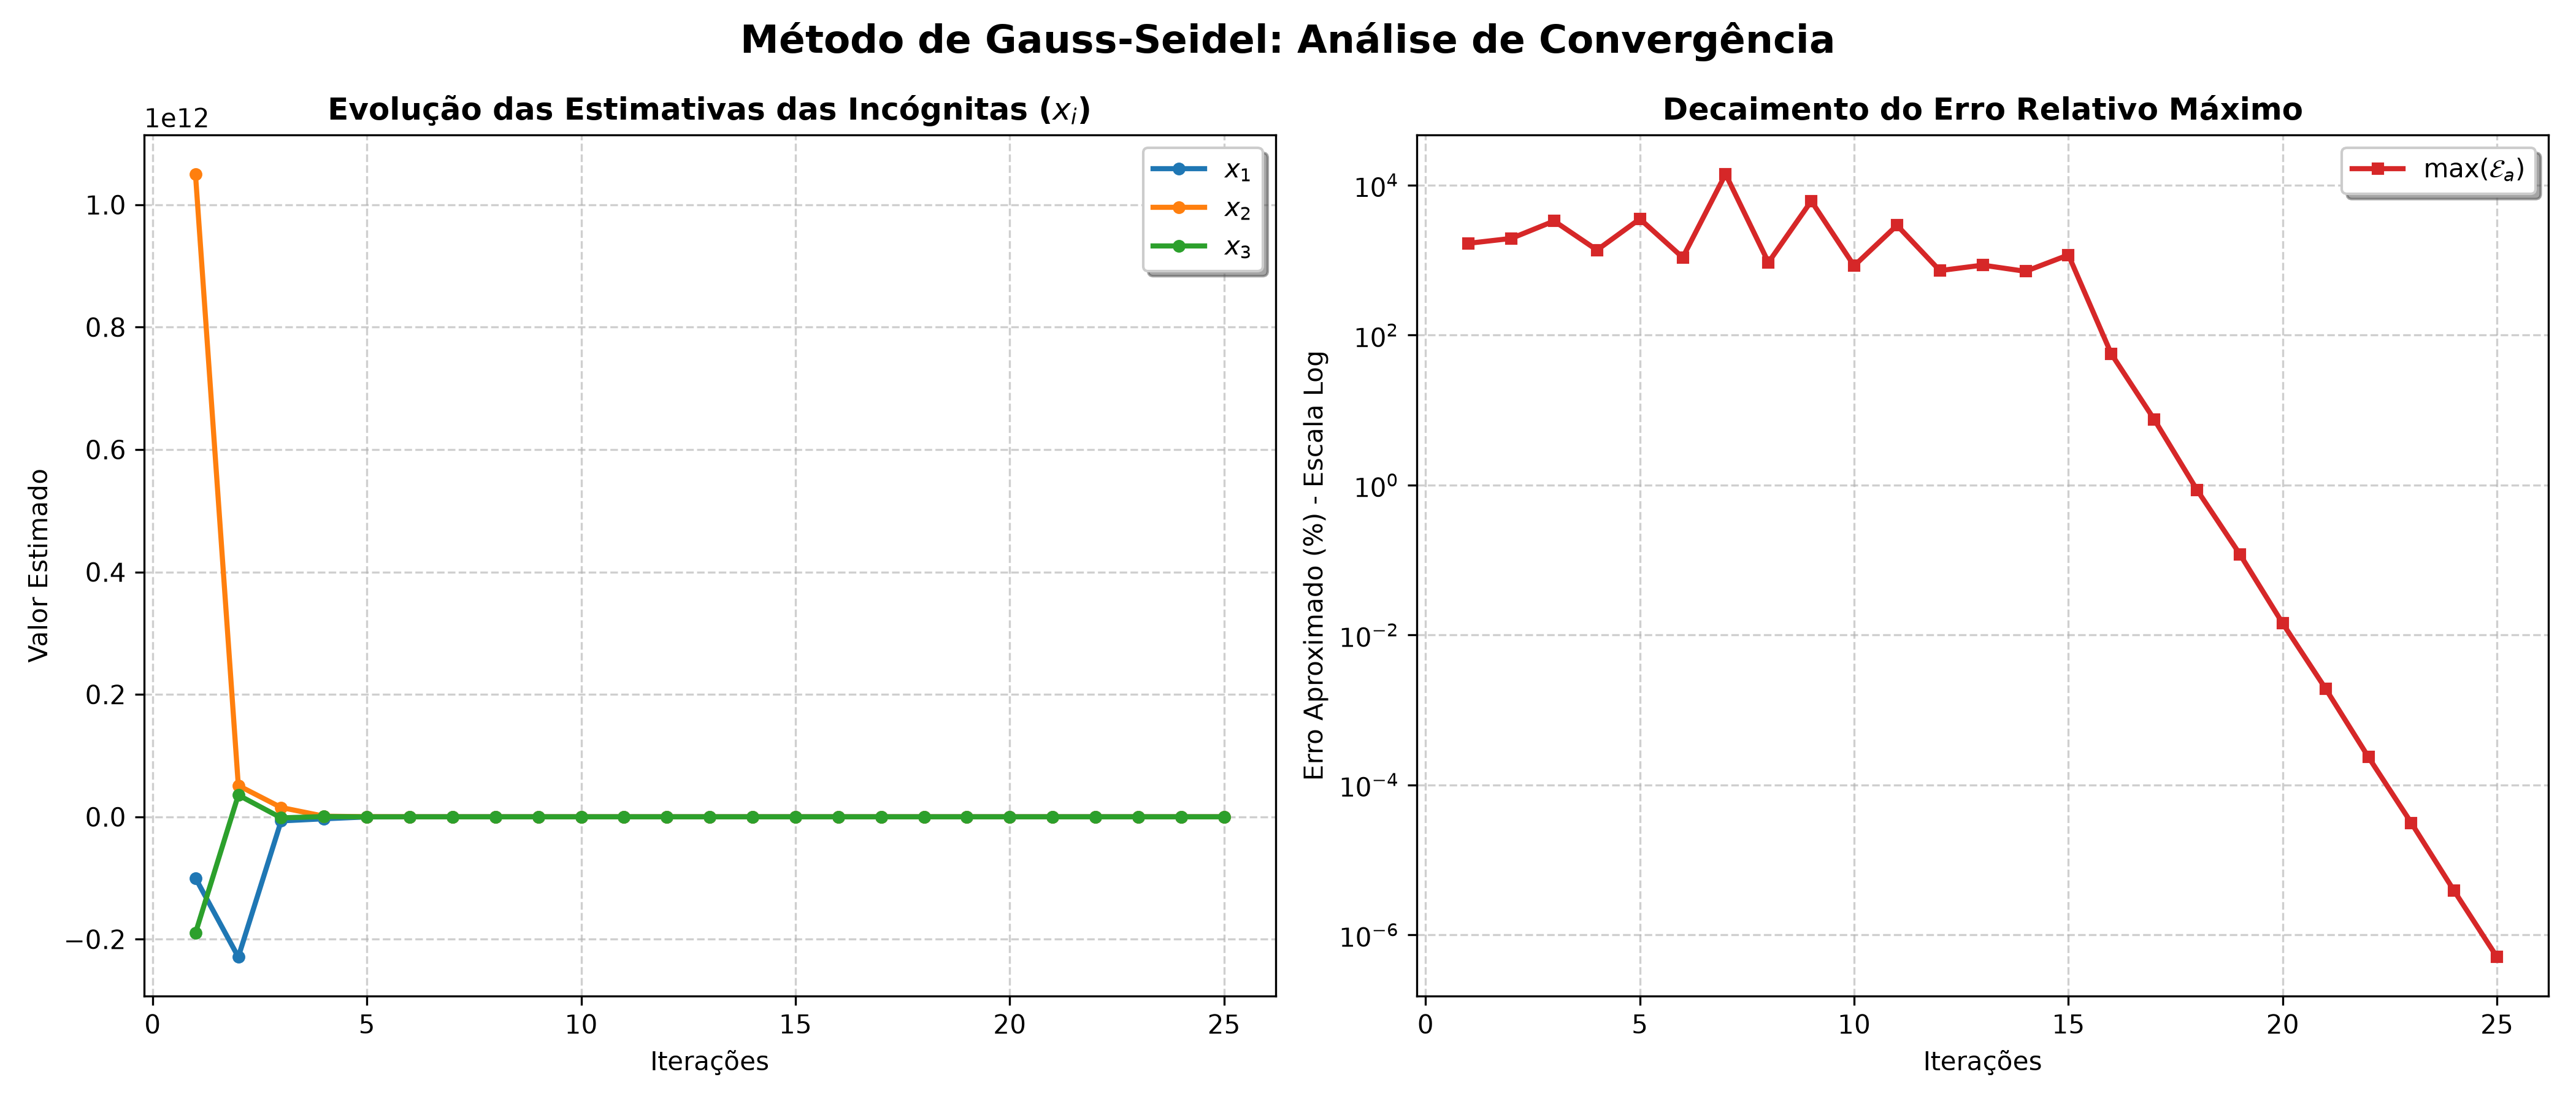
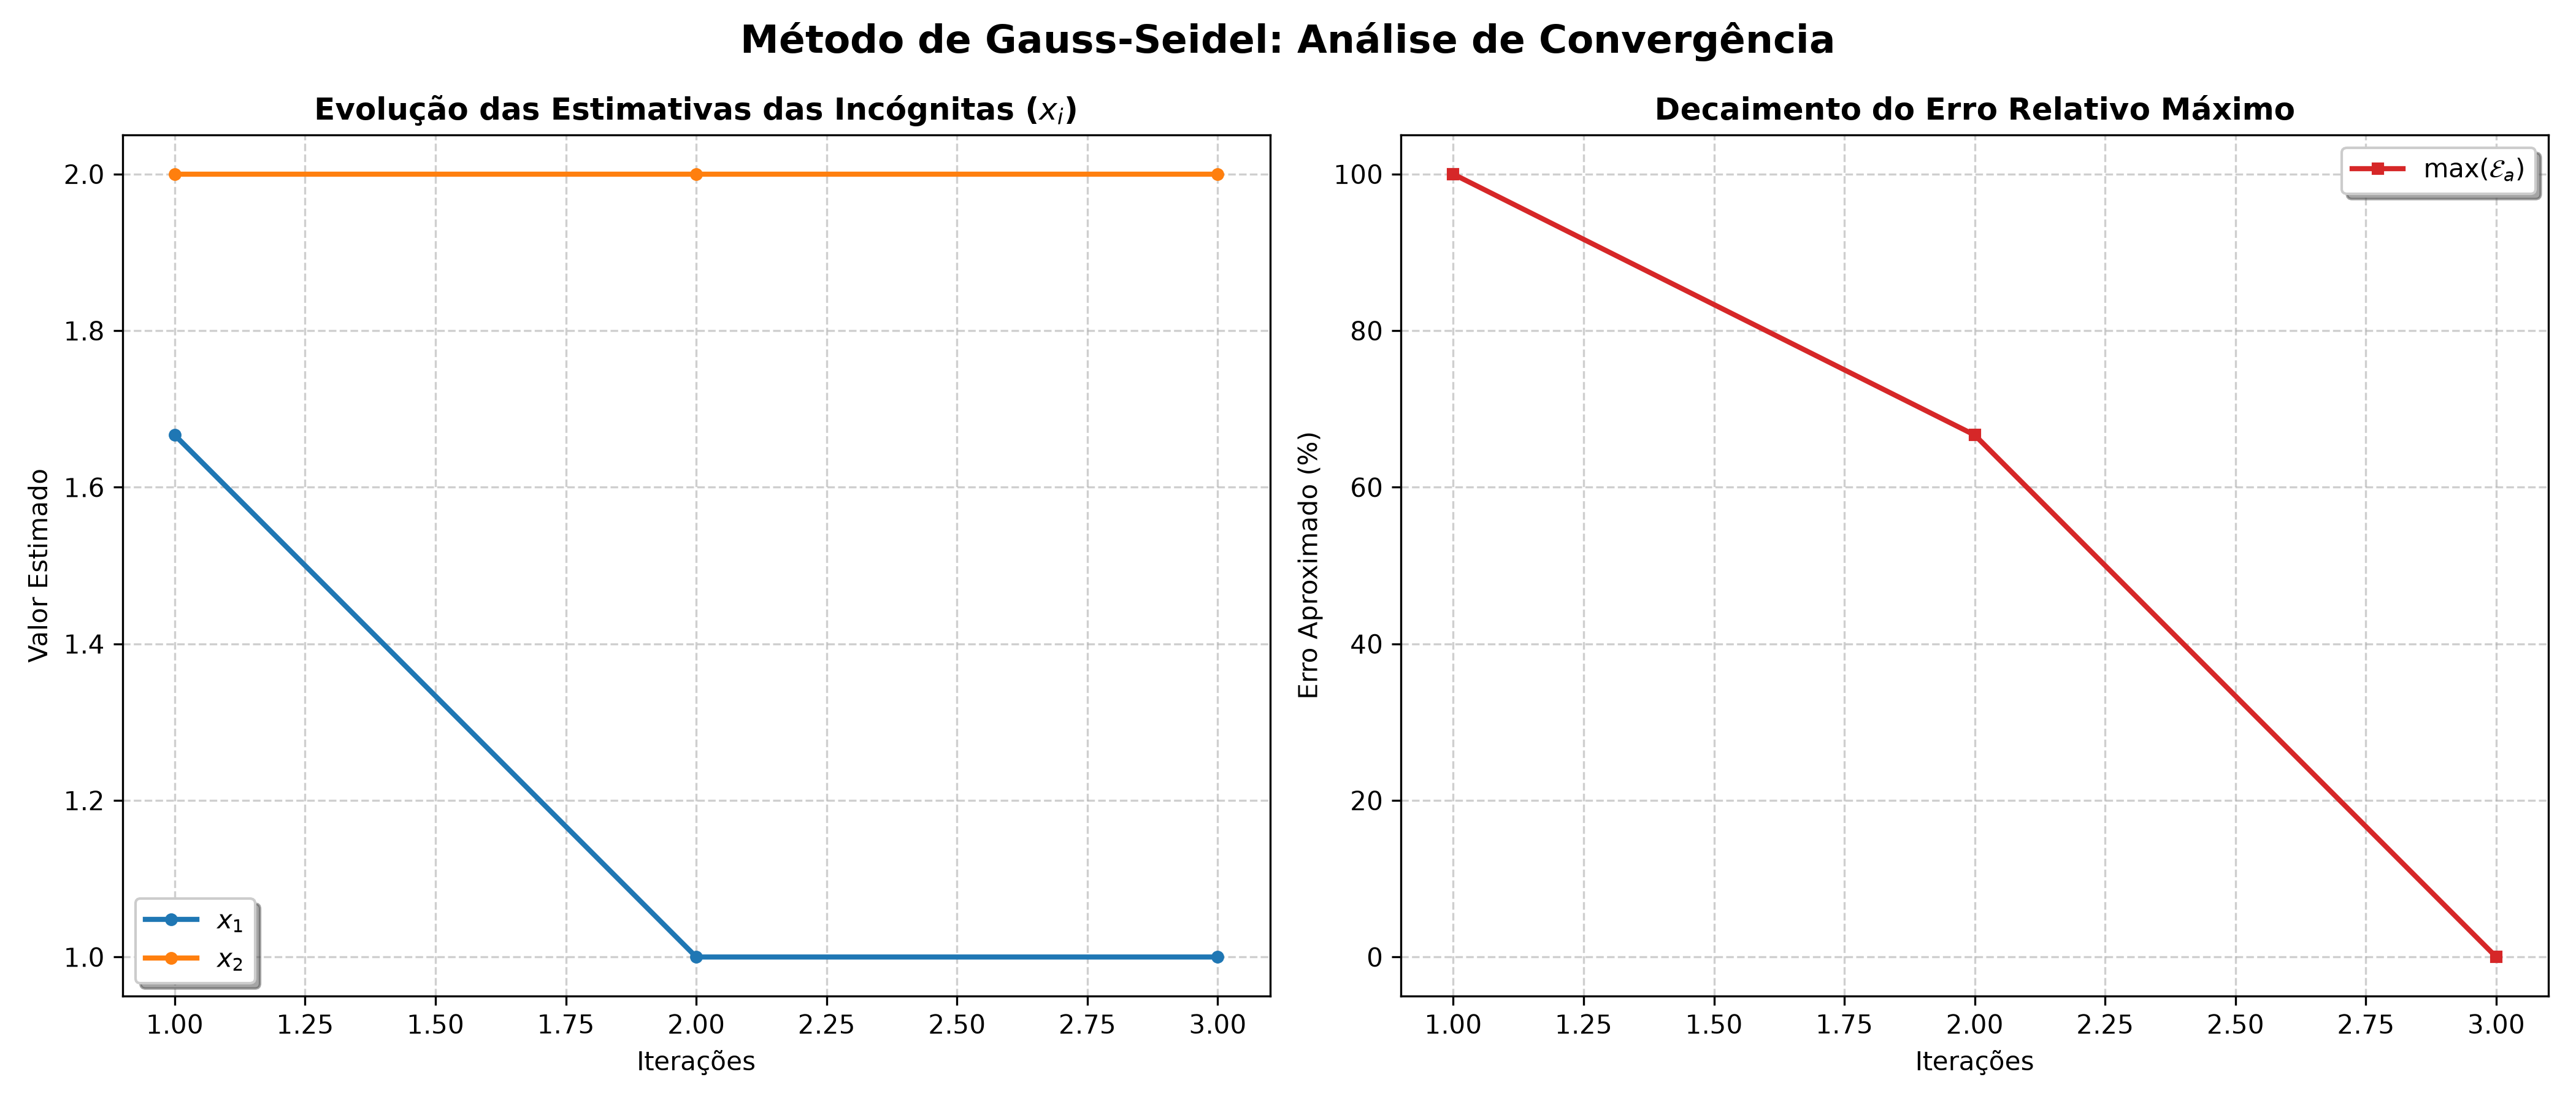
docs: Documenta exemplos gerais para execução dos dois Métodos

diff --git a/metodo_gauss_seidel.py b/metodo_gauss_seidel.py
@@ -315,6 +315,16 @@ def main():
         b = b_padrao
         n = 3
 
+    # Se houver elementos nulos na diagonal principal, tenta reordenar antes de fazer a análise
+    if any(abs(A[i][i]) < 1e-12 for i in range(n)):
+        print("\n[AVISO] Elemento nulo detectado na diagonal principal. Tentando reordenar o sistema...")
+        try:
+            A, b = reordenar_sistema(A, b)
+            print("[OK] Sistema reordenado com sucesso para remover zeros da diagonal!")
+        except ValueError as err:
+            print(f"\n[ERRO] {err}")
+            return
+
     # Análise matemática de convergência
     diag_dominante = check_diagonal_dominance(A)
     sassenfeld_ok, beta_max = check_sassenfeld(A)

diff --git a/README.md b/README.md
@@ -53,6 +53,26 @@ Substituindo na fórmula geral de Newton-Raphson, a iteração simplificada se t
 
 $$x_{i+1} = x_i - \frac{x_i^3 - x_i - 2}{3x_i^2 - 1}$$
 
+### Exemplos Interessantes para Demonstração
+
+Para fins de apresentação e análise de comportamento matemático de Newton-Raphson com a função de trabalho $f(x) = x^3 - x - 2$, recomenda-se testar os seguintes cenários:
+
+#### 1. Caso Ideal: Convergência Quadrática Rápida
+*   **Parâmetros de Entrada:**
+    *   Chute Inicial ($x_0$): `2.0` (ou `1.5`)
+    *   Tolerância ($E_s$): `1e-6` ($0.000001\%$)
+    *   Iterações Máximas ($N_0$): `10`
+*   **Comportamento:** O método converge com sucesso absoluto em apenas **5 iterações**. Isso ocorre porque o chute inicial está próximo à raiz real ($\approx 1.52138$) e em uma região estável e convexa da função.
+*   **Significado Matemático:** Ilustra a principal vantagem prática do Método de Newton-Raphson: quando bem posicionado, o número de algarismos significativos corretos dobra a cada iteração.
+
+#### 2. Caso de Instabilidade: Fenômeno do "Salto" (Overshoot)
+*   **Parâmetros de Entrada:**
+    *   Chute Inicial ($x_0$): `0.57` *(ponto muito próximo ao extremo local mínimo em $x \approx 0.57735$, onde a derivada $f'(x)$ tende a zero)*
+    *   Tolerância ($E_s$): `1e-6` ($0.000001\%$)
+    *   Iterações Máximas ($N_0$): `50`
+*   **Comportamento:** Por conta de a derivada ser extremamente próxima de zero ($f'(0.57) \approx -0.0253$), a reta tangente é quase horizontal, projetando a aproximação seguinte para muito longe: **$x_1 \approx -93.69$**. A partir desse valor distante, o algoritmo leva **24 iterações** para retornar e convergir para a raiz exata.
+*   **Significado Matemático:** Demonstra graficamente a sensibilidade do método ao chute inicial. Zonas de derivadas nulas ou quase nulas fazem a reta tangente "chutar" as iterações para fora da área de interesse, retardando consideravelmente a convergência ou provocando divergência se o limite $N_0$ for muito restrito.
+
 ### Visualização Gráfica
 Ao término da execução, o script gera e salva automaticamente o gráfico `grafico_newton.png`. Este gráfico plota a curva da função $f(x) = x^3 - x - 2$, destaca no eixo $x$ o ponto exato da raiz encontrada pelo método de Newton-Raphson, e ilustra os passos ou retas tangentes de convergência.
 
@@ -99,6 +119,63 @@ $$x_1^{(k+1)} = \frac{27 - 2x_2^{(k)} + x_3^{(k)}}{10}$$
 $$x_2^{(k+1)} = \frac{-61.5 + 3x_1^{(k+1)} - 2x_3^{(k)}}{-6}$$
 
 $$x_3^{(k+1)} = \frac{-21.5 - x_1^{(k+1)} - x_2^{(k+1)}}{5}$$
+
+### Exemplos Interessantes para Demonstração
+
+Para fins de demonstração do Método de Gauss-Seidel, recomenda-se testar os seguintes cenários:
+
+#### 1. Caso de Independência do Chute Inicial (Sistema Padrão)
+*   **Parâmetros de Entrada:**
+    *   Escolha do Sistema: Padrão (`P`)
+    *   Chute Inicial ($x_0$): `[1000.0, -1000.0, 1000.0]` *(chute inicial muito distante da solução real)*
+    *   Tolerância ($E_s$): `1e-5` ($0.00001\%$)
+    *   Iterações Máximas ($N_0$): `100`
+*   **Comportamento:** O algoritmo converge perfeitamente para a solução exata $x = [3.0, 12.5, -7.0]$ em apenas **12 iterações**.
+*   **Significado Matemático:** Comprova graficamente a robustez e a propriedade de convergência global do método. Quando a matriz é estritamente diagonal dominante, o algoritmo garante a convergência independente de quão absurdo ou distante seja o chute inicial escolhido.
+
+#### 2. Caso de Matriz não Diagonal Dominante, mas Convergente (Sassenfeld)
+*   **Parâmetros de Entrada:**
+    *   Escolha do Sistema: Customizado (`C`)
+    *   Ordem do Sistema ($n$): `3`
+    *   Linhas da Matriz $A$:
+        *   Linha 1: `2 1 0`
+        *   Linha 2: `3 4 2`
+        *   Linha 3: `0 1 2`
+    *   Vetor $b$: `5 17 5` *(Solução exata: $[1.0, 3.0, 1.0]$)*
+    *   Equações Iterativas:
+        $$
+        \begin{cases}
+        2x_1 + x_2 = 5 \\
+        3x_1 + 4x_2 + 2x_3 = 17 \\
+        x_2 + 2x_3 = 5
+        \end{cases}
+        $$
+        $$
+        x_1^{(k+1)} = \frac{5 - x_2^{(k)}}{2}\\
+        x_2^{(k+1)} = \frac{17 - 3x_1^{(k+1)} - 2x_3^{(k)}}{4}\\
+        x_3^{(k+1)} = \frac{5 - x_2^{(k+1)}}{2}
+        $$
+    *   Chute Inicial ($x_0$): `[0.0, 0.0, 0.0]`
+    *   Tolerância ($E_s$): `1e-4`
+    *   Iterações Máximas ($N_0$): `100`
+*   **Comportamento:** O script detectará e alertará que a matriz **não** atende ao critério clássico de dominância diagonal (na segunda linha, $|4| \le |3| + |2|$). No entanto, o script também calculará e mostrará que o **Critério de Sassenfeld** é atendido ($\beta_{max} = 0.875 < 1.0$), prosseguindo para a execução e convergência com sucesso absoluto em **10 iterações**.
+*   **Significado Matemático:** Demonstra a utilidade do Critério de Sassenfeld como uma ferramenta mais geral e robusta do que a dominância diagonal por linhas clássica, permitindo resolver numericamente sistemas que seriam descartados por análises mais simples.
+
+#### 3. Caso de Reordenação Automática de Linhas (Zeros na Diagonal)
+*   **Parâmetros de Entrada:**
+    *   Escolha do Sistema: Customizado (`C`)
+    *   Ordem do Sistema ($n$): `2`
+    *   Linhas da Matriz $A$:
+        *   Linha 1: `0 2`
+        *   Linha 2: `3 1`
+    *   Vetor $b$: `4 5` *(Solução exata: $[1.0, 2.0]$)*
+    *   Chute Inicial ($x_0$): `[0.0, 0.0]`
+    *   Tolerância ($E_s$): `1e-5`
+    *   Iterações Máximas ($N_0$): `50`
+*   **Comportamento:** O script detectará imediatamente a presença de um zero na diagonal principal ($a_{11} = 0$), o que impediria a divisão na iteração clássica de Gauss-Seidel, pois sofreria uma divisão por zero na 1ª iteração do método. O script executará a reordenação automática de linhas (permutando a linha 1 com a linha 2), resultando em um sistema equivalente com diagonal estritamente dominante e livre de zeros:
+    $$A' = \begin{pmatrix} 3 & 1 \\ 0 & 2 \end{pmatrix}, \quad b' = \begin{pmatrix} 5 \\ 4 \end{pmatrix}$$
+    A partir disso, o método converge com sucesso absoluto em apenas **3 iterações**.
+*   **Significado Matemático:** Demonstra a robustez computacional necessária na engenharia de algoritmos numéricos. O tratamento dinâmico de pivôs evita exceções de divisão por zero (indefinições matemáticas) e recupera sistemas teoricamente convergentes mesmo que fornecidos em ordem desfavorável.
 
 ### Visualização Gráfica
 Ao término da execução, o script gera e salva automaticamente o gráfico `grafico_gauss_seidel.png`. Este gráfico ilustra a evolução da estimativa de cada variável ($x_1, x_2, x_3$) ou do erro relativo aproximado a cada iteração, fornecendo uma visão clara do comportamento e velocidade de convergência do método.